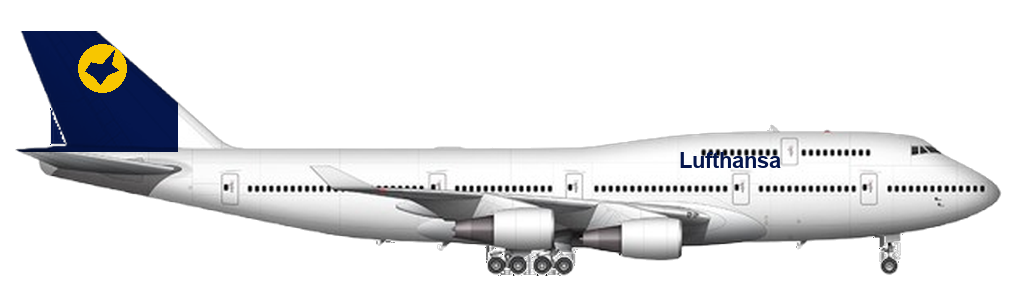
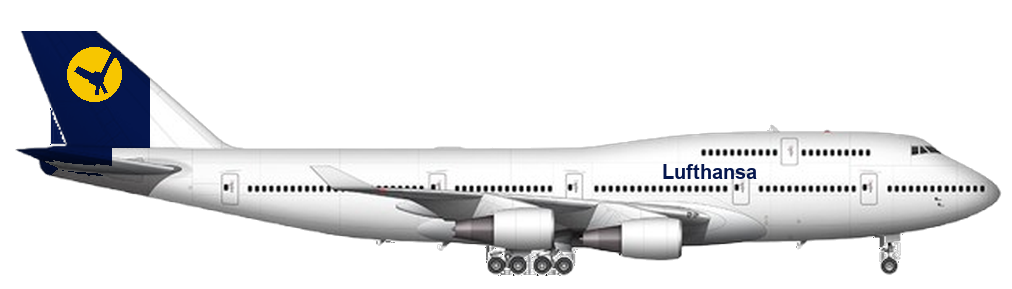
Repaint the Lufthansa 747s: full navy fin, a real crane, titles on the cabin.

Changed region(s): [[0.0306, 0.1557, 0.1838, 0.6228], [0.6433, 0.5294, 0.7964, 0.6228]]

diff --git a/flight-simulator-2026/index.html b/flight-simulator-2026/index.html
@@ -153,7 +153,7 @@
   <script src="js/input.js?v=hump38"></script>
   <script src="js/hud.js?v=hump38"></script>
   <script src="js/loading.js?v=hump38"></script>
-  <script src="js/game.js?v=b747liv3"></script>
+  <script src="js/game.js?v=b747liv4"></script>
   <script src="js/mobile.js?v=hump38"></script>
   <script src="js/menu.js?v=free1"></script>
   <script src="js/main.js"></script>

diff --git a/flight-simulator-2026/js/game.js b/flight-simulator-2026/js/game.js
@@ -123,7 +123,7 @@ class Game {
       const load = (file, key) => {
         const img = new Image();
         img.onload = () => { pack[key] = img; };
-        img.src = `${base}${file}?v=liv17`;
+        img.src = `${base}${file}?v=liv18`;
       };
       load(`${prefix}-gearup.png`, "up");
       load(`${prefix}-geardown.png`, "down");
